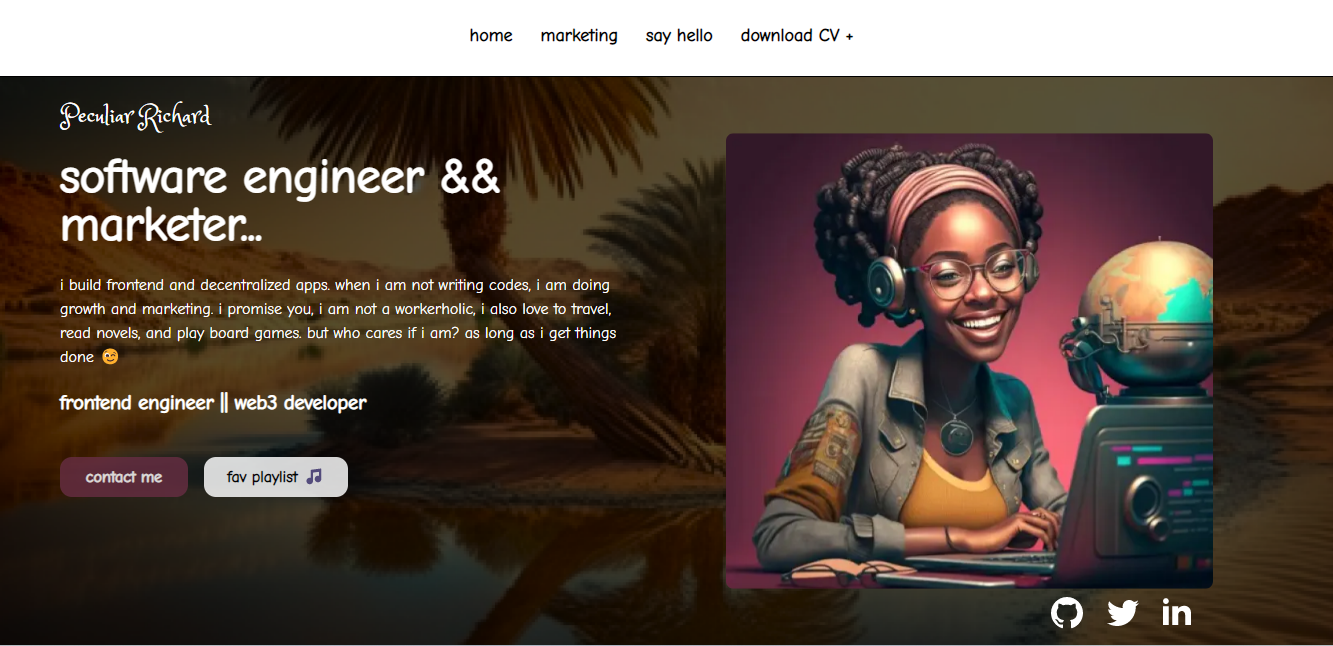
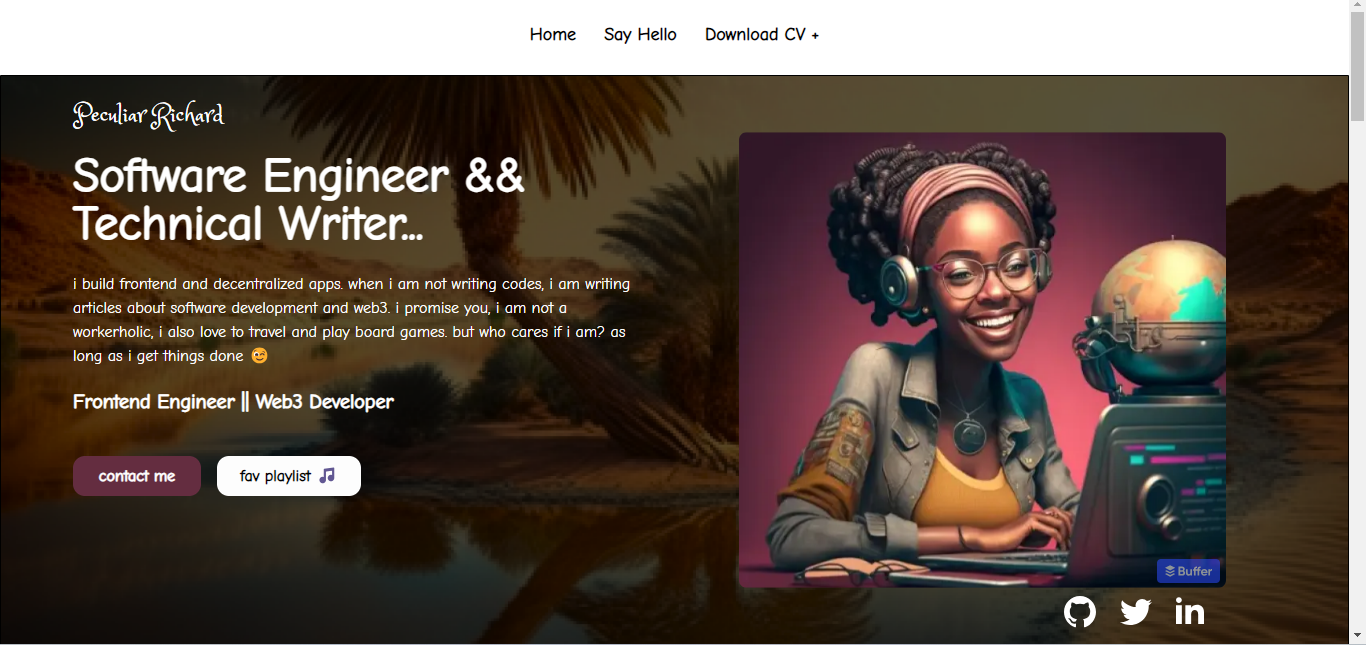
fix: updated skills

diff --git a/pages/index.js b/pages/index.js
@@ -39,12 +39,12 @@ function Home() {
             <h1
               data-aos="zoom-in-up"
               className="text-5xl sm:text-3xl pb-6 font-black sm:text-center md:text-3xl text-white capitalize">
-              Software Engineer && Marketer...
+              Software Engineer && Technical Writer...
             </h1>
             <p className="pb-5 text-ellipsis sm:text-center sm:font-normal text-white md:text-sm md:w-80">
               i build frontend and decentralized apps. when I am not writing
-              codes, I am doing growth and marketing. i promise you, I am not a
-              workerholic, I also love to travel, read novels, and play board
+              codes, I am writing articles about software development and web3. i promise you, I am not a
+              workerholic, I also love to travel and play board
               games. but who cares if I am? as long as I get things done 😉
             </p>
             <p className="pb-5 font-extrabold text-xl sm:text-center text-white md:text-sm capitalize">

diff --git a/components/Navbar.js b/components/Navbar.js
@@ -58,9 +58,6 @@ const Navbar = () => {
           <Link href="/" className="capitalize">
             home
           </Link>
-          <Link href="/marketer" className="capitalize">
-            marketing
-          </Link>
           <Link href="/contact" className="capitalize">
             say hello
           </Link>
@@ -75,9 +72,6 @@ const Navbar = () => {
                   target="_blank"
                   className="capitalize">
                   for software dev
-                </Link>
-                <Link href="#" className="capitalize">
-                  for marketing
                 </Link>
               </div>
             ) : null}

diff --git a/components/Skills.js b/components/Skills.js
@@ -37,7 +37,7 @@ const Skills = () => {
               <tbody>
                 <tr>
                   <td className=" border-t-0 px-4 py-2 leading-6 ">
-                    react <br></br> next <br></br>vue <br></br>truffle suite{" "}
+                    react <br></br> next <br></br>vue <br></br>Ethers JS{" "}
                     <br></br>web3.js
                   </td>
                 </tr>
